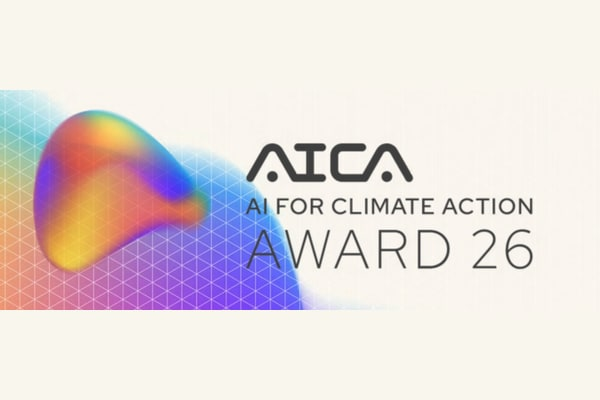
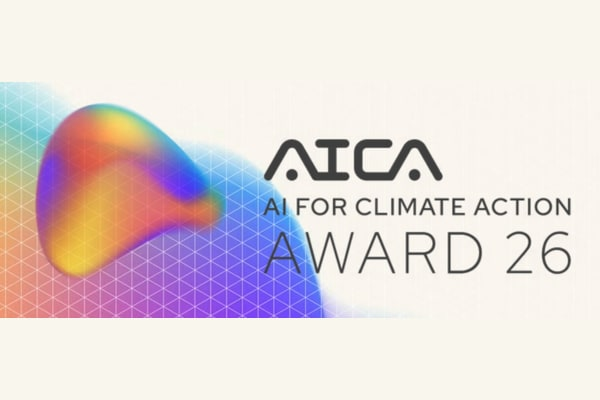
Frame the engagement images with a hairline
The AICA plate is cream on a white card, so its edge dissolved; give
every engagement image the same --color-line border. The award banner
also picks up its 90px of dead right-hand cream as extra size, so it
sits larger and exactly centred in the 3:2 frame.

Changed region(s): [[0.0, 0.24, 0.96, 0.81], [0.0, 0.18, 0.06, 0.24], [0.06, 0.57, 0.09, 0.63]]

diff --git a/app/partners/page.tsx b/app/partners/page.tsx
@@ -62,7 +62,7 @@ export default function PartnersPage() {
                     </p>
                   </div>
                   {item.image && (
-                    <div className="relative aspect-[3/2] w-full overflow-hidden rounded-xl">
+                    <div className="relative aspect-[3/2] w-full overflow-hidden rounded-xl border border-line">
                       <Image
                         src={item.image}
                         alt={item.title}
